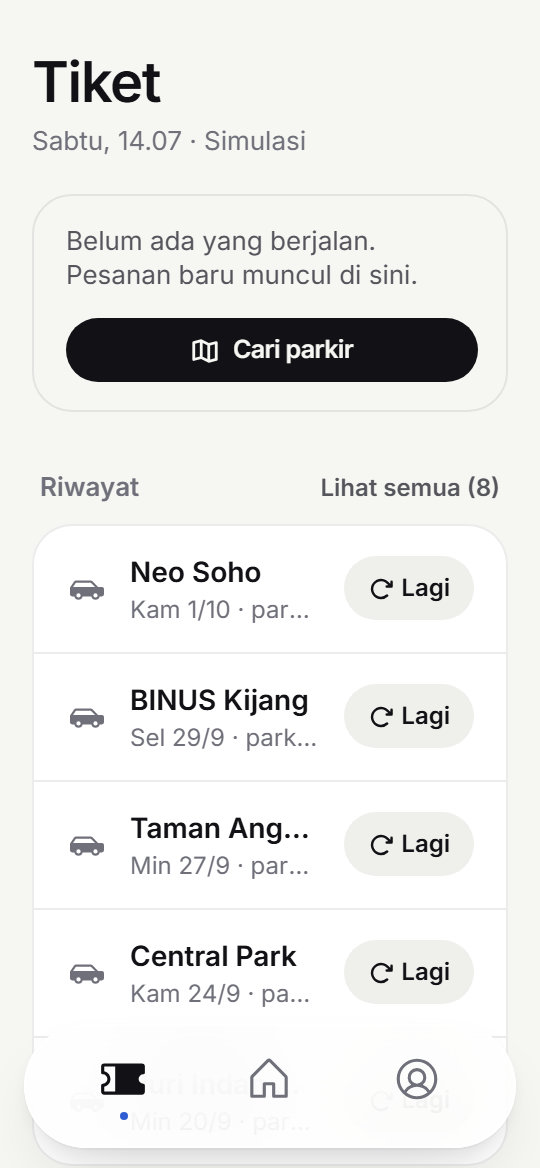
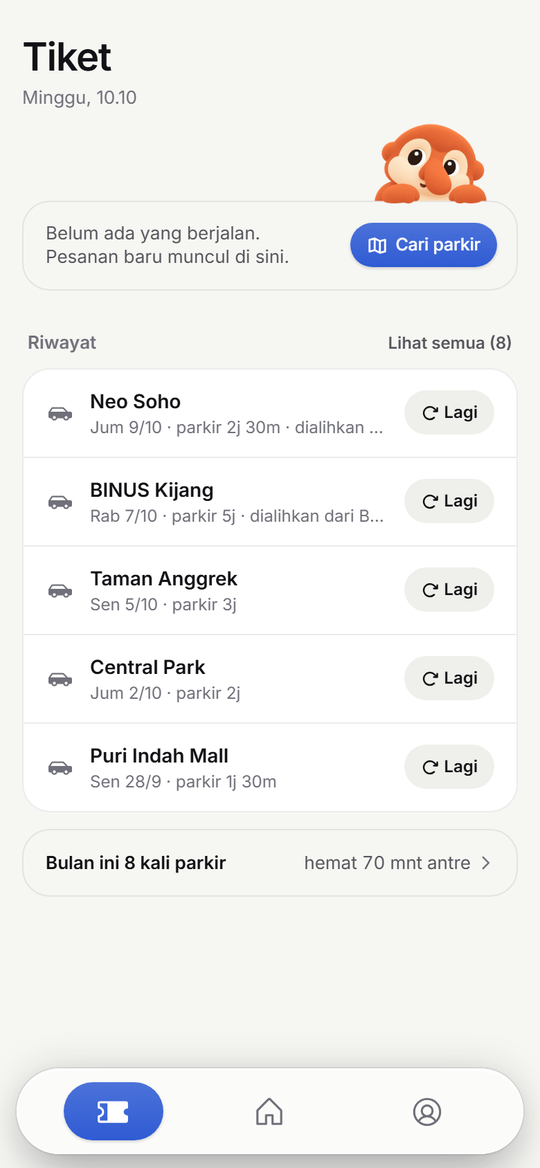
Refresh app screenshots to the current design
Explore, dark explore, Zona KENNETH, valet card, Tiket, Akun and the laptop view now show the
bekantan, the new wordmark and the venue icons. Adds place.png (place card with the building icon).

diff --git a/README.md b/README.md
@@ -11,9 +11,9 @@ Seberapa penuh, antri gerbang berapa menit, dan ke mana kalau penuh. Sebelum kam
 Buka di HP untuk app-nya. Di laptop, app yang sama tampil di bingkai HP dengan QR di pojok.</p>
 
 <p align="center">
-  <img src="docs/screens/explore.png" width="200" alt="Beranda: peta dan daftar tempat" />
+  <img src="docs/screens/explore.png" width="200" alt="Beranda: peta dengan persentase terisi dan kolom cari" />
   <img src="docs/screens/modes.png" width="200" alt="Beranda dengan Zona KENNETH dipilih: pin menampilkan harga petak" />
-  <img src="docs/screens/valet-card.png" width="200" alt="Kartu tempat Taman Anggrek dengan Valet runner dipilih" />
+  <img src="docs/screens/valet-card.png" width="200" alt="Kartu tempat Taman Anggrek dengan Valet runner dipilih, ikon gedung di samping nama" />
   <img src="docs/screens/activity.png" width="200" alt="Tab Tiket: sekarang, nanti, riwayat" />
 </p>
 
